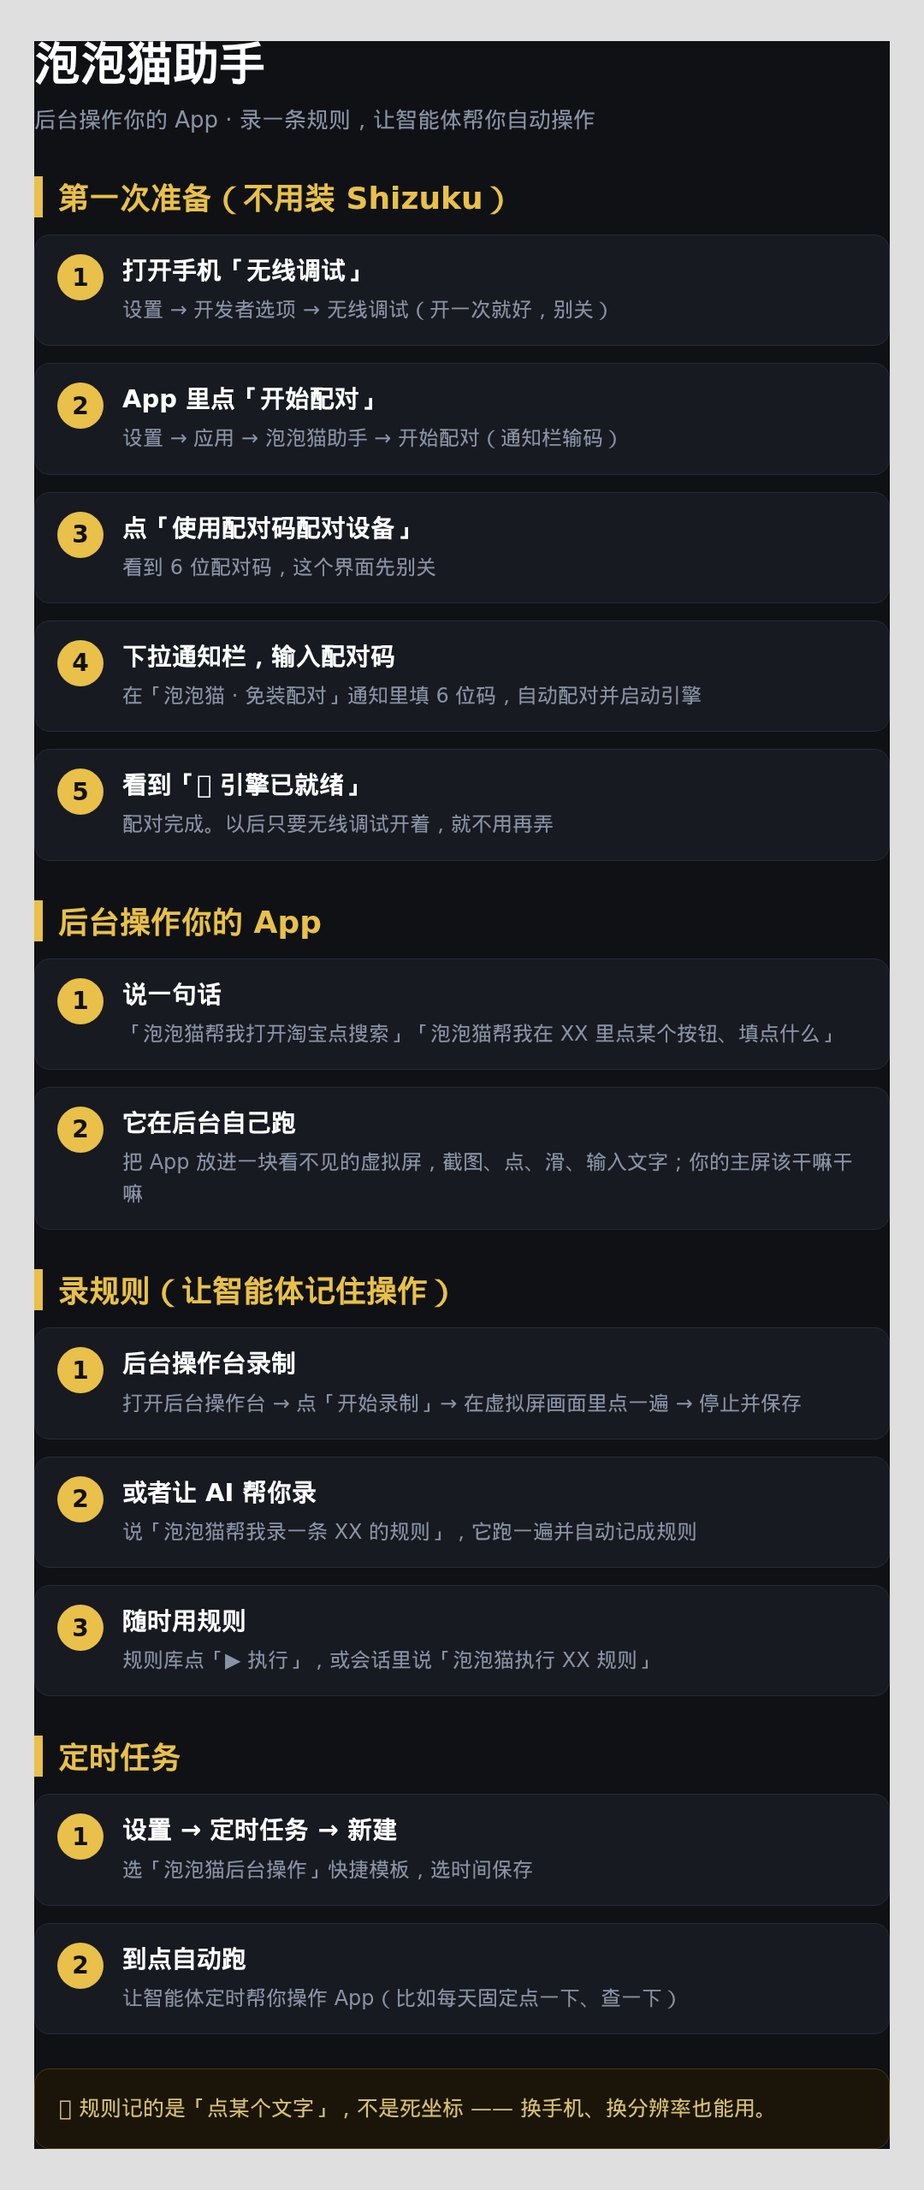
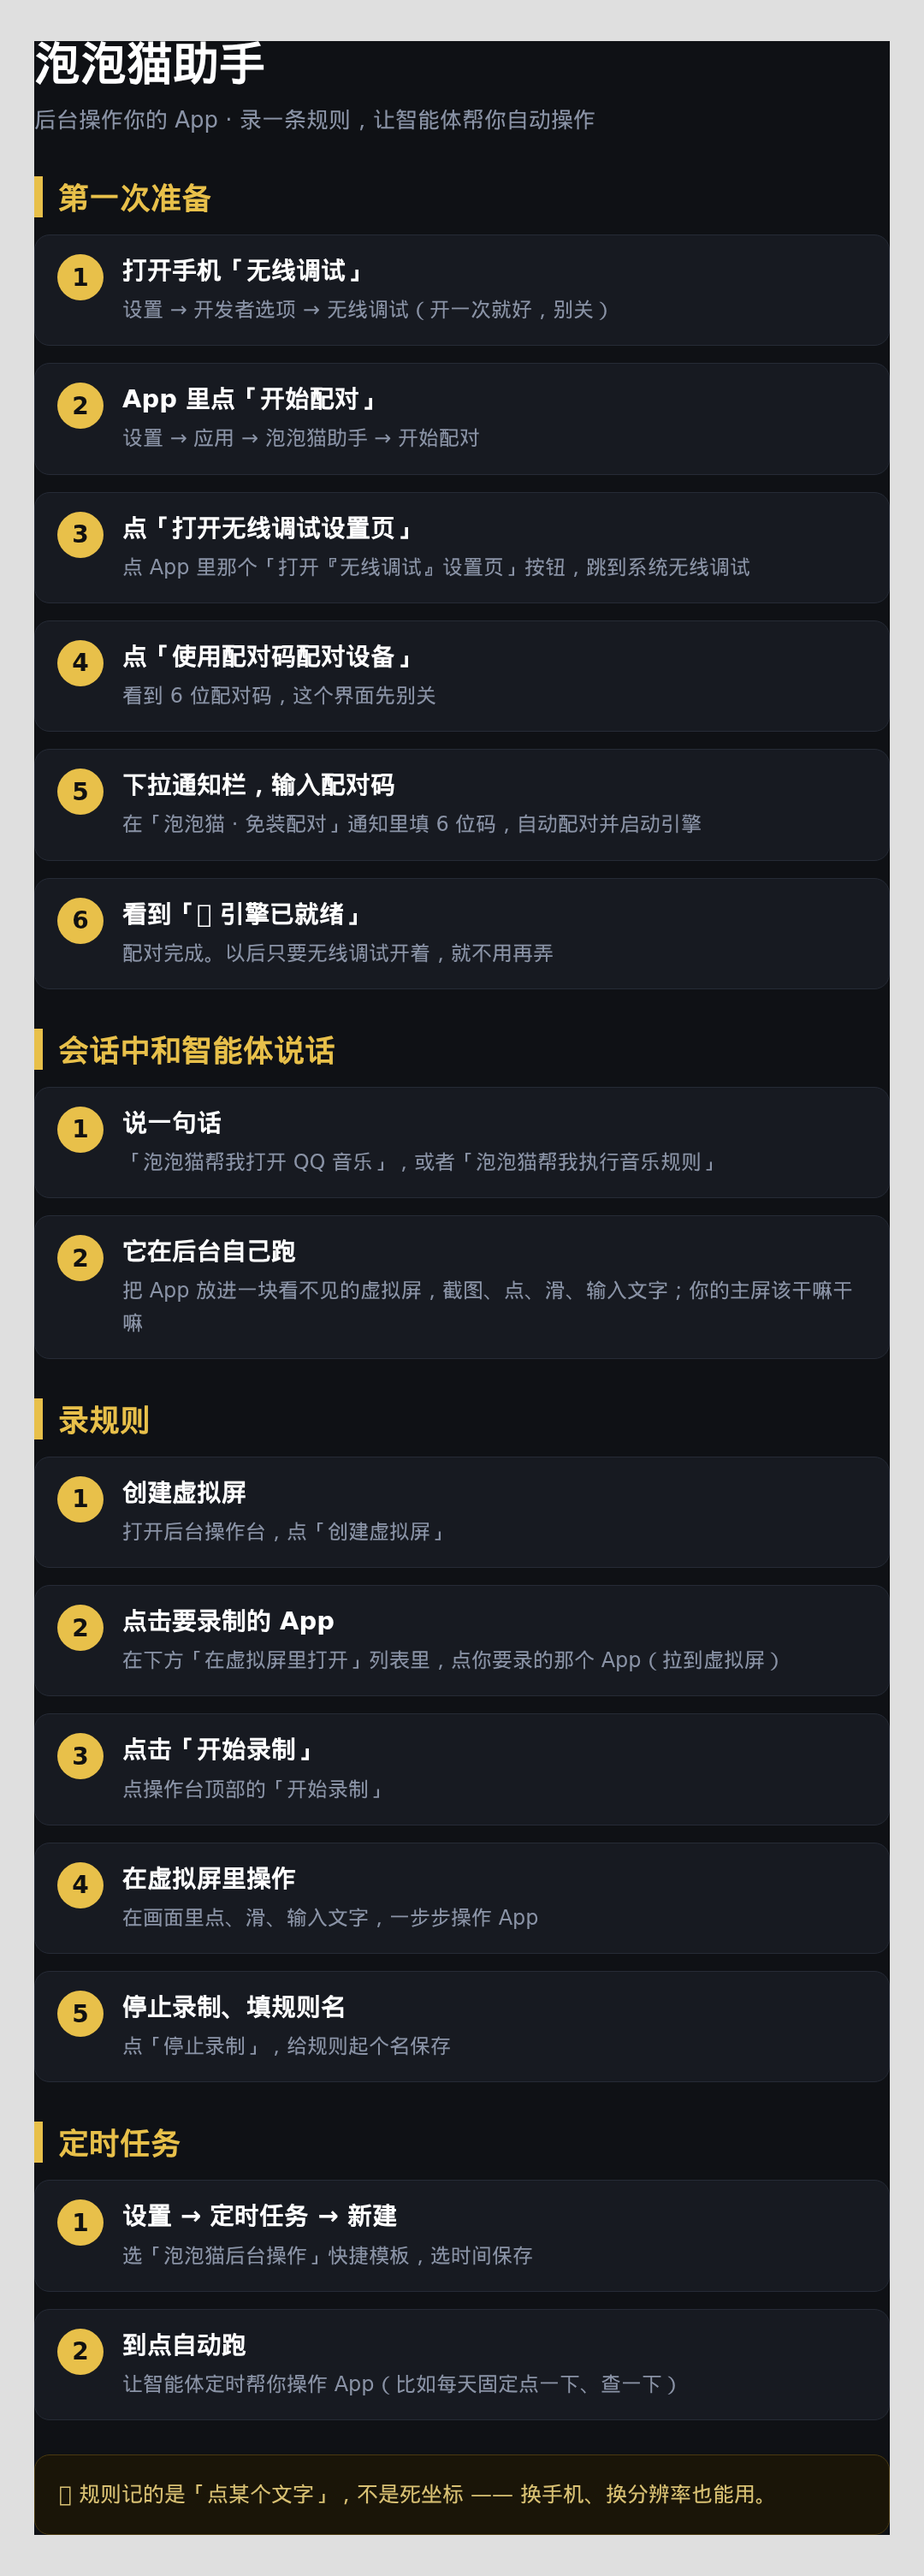
图文说明再改：第一次准备去「免装Shizuku」+补「打开无线调试设置页」步骤，会话例子改QQ音乐，录规则写清5步

diff --git a/app/lib/ui/pages/phone_agent_guide_page.dart b/app/lib/ui/pages/phone_agent_guide_page.dart
@@ -5,7 +5,7 @@ import '../theme/dsh_tokens.dart';
 
 /// 「后台操作」的图文使用说明（全屏看图）。
 ///
-/// 图本身是一张竖版长图（`assets/images/phone_agent_guide.png`，1080×2559），
+/// 图本身是一张竖版长图（`assets/images/phone_agent_guide.png`，1080×3010），
 /// 由 HTML + 无头 Chrome 生成（内容源见 /tmp/guide2.html）。
 /// 内容四段：第一次准备（免装 Shizuku 配对：mDNS 自动找端口 + 通知栏输码）
 /// ＋ 后台操作你的 App ＋ 录规则（后台操作台/AI）＋ 定时任务。
